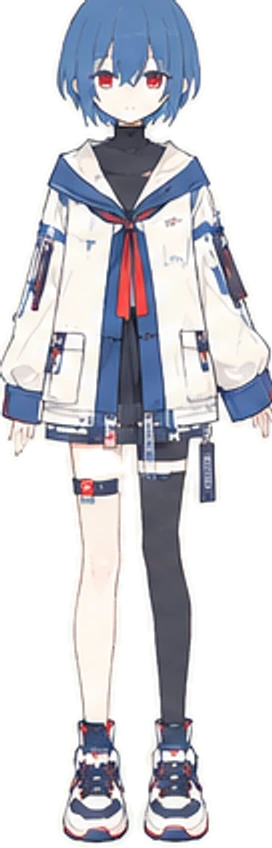
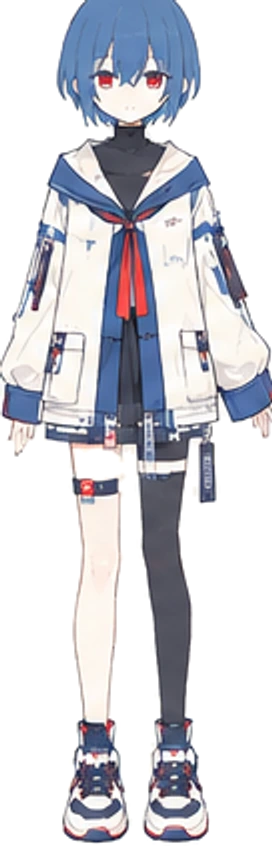
fix(character): strip the leftover paper rim that showed as a white edge
線画の外側に、紙よりわずかに明るい 1〜2 画素の帯が残っていた。塗りつぶしを
止めるための「勾配の壁」が、紙とこの帯の境目（L1 で 28）にも反応して、
そこで止まっていたのが原因。暗い地色に置くと白いフチとして見える。

直したのは 2 か所。

1. 塗りつぶしのあと、透明側から内側へ「紙色に近い画素」だけを 1 画素ずつ削る。
   線画（紙色から大きく離れた色）に当たったところで止まるので、服の白までは
   食い込まない。既定 3 回。
2. 2 倍に拡大する前に、透明部分へ縁の色を広げる（アルファブリード）。
   これをやらないと補間が境界をまたいで紙色を引っ張り込み、せっかく削った
   フチが戻ってくる。

素足の図（wear-socks）だけは輪郭線だけの淡い絵で、紙と見分けがつかず 1 を
掛けると線ごと消えてしまう。表情・顔のアップと同じく、切り抜かずに図版として
紙のカードに載せる扱いに変えた。

確認はマゼンタ地の上で行った。白いフチはどんな地色より目立つので、
暗い地色で見るより確実に分かる。

diff --git a/src/content/character.ts b/src/content/character.ts
@@ -33,11 +33,11 @@ const sheet = (
 
 /** 全身 5 方向 */
 export const bodyViews: readonly Plate[] = [
-  sheet('body-front', '正面', 272, 848, 'cutout'),
-  sheet('body-side', '横', 174, 840, 'cutout'),
-  sheet('body-back', '背面', 242, 842, 'cutout'),
-  sheet('body-front45', '斜め前', 252, 844, 'cutout'),
-  sheet('body-back45', '斜め後ろ', 236, 842, 'cutout'),
+  sheet('body-front', '正面', 272, 846, 'cutout'),
+  sheet('body-side', '横', 172, 836, 'cutout'),
+  sheet('body-back', '背面', 242, 840, 'cutout'),
+  sheet('body-front45', '斜め前', 248, 842, 'cutout'),
+  sheet('body-back45', '斜め後ろ', 230, 838, 'cutout'),
 ] as const
 
 /** 顔のアップ */
@@ -59,23 +59,23 @@ export const expressions: readonly Plate[] = [
 
 /** 髪型の詳細 */
 export const hairPlates: readonly Plate[] = [
-  sheet('hair-front', '前髪', 282, 212, 'cutout'),
-  sheet('hair-side', '横髪（左側）', 244, 212, 'cutout'),
-  sheet('hair-back', '後ろ髪', 232, 276, 'cutout'),
-  sheet('hair-ornament', '髪飾り', 220, 196, 'cutout', '後ろの襟元に「×」の飾りがある'),
+  sheet('hair-front', '前髪', 280, 212, 'cutout'),
+  sheet('hair-side', '横髪（左側）', 240, 212, 'cutout'),
+  sheet('hair-back', '後ろ髪', 230, 272, 'cutout'),
+  sheet('hair-ornament', '髪飾り', 216, 194, 'cutout', '後ろの襟元に「×」の飾りがある'),
 ] as const
 
 /** 衣装・小物 */
 export const wearPlates: readonly Plate[] = [
-  sheet('wear-jacket-front', '上着（前面）', 360, 356, 'cutout', 'セーラージャケット'),
-  sheet('wear-jacket-back', '上着（背面）', 272, 384, 'cutout', '襟の背面に「×」'),
-  sheet('wear-inner', 'インナー', 224, 328, 'cutout', 'ノースリーブのハイネック'),
-  sheet('wear-bottoms', 'ボトムス', 322, 284, 'cutout', 'スカート + ショートパンツ'),
-  sheet('wear-socks', 'ソックス・ガーター', 190, 342, 'cutout', '右太ももにガーター'),
-  sheet('wear-shoes', 'シューズ', 390, 188, 'cutout', '厚底のスニーカー'),
-  sheet('wear-tie', 'ネクタイ', 132, 192, 'cutout', 'セーラーのリボン'),
-  sheet('wear-tags', '装飾・タグ', 128, 190, 'cutout', 'サイドのストラップとタグ'),
-  sheet('wear-extras', 'その他の装飾', 392, 196, 'cutout', '腕のポケットとベルト'),
+  sheet('wear-jacket-front', '上着（前面）', 360, 354, 'cutout', 'セーラージャケット'),
+  sheet('wear-jacket-back', '上着（背面）', 238, 346, 'cutout', '襟の背面に「×」'),
+  sheet('wear-inner', 'インナー', 224, 324, 'cutout', 'ノースリーブのハイネック'),
+  sheet('wear-bottoms', 'ボトムス', 318, 276, 'cutout', 'スカート + ショートパンツ'),
+  sheet('wear-socks', 'ソックス・ガーター', 218, 337, 'plate', '右太ももにガーター'),
+  sheet('wear-shoes', 'シューズ', 386, 184, 'cutout', '厚底のスニーカー'),
+  sheet('wear-tie', 'ネクタイ', 124, 188, 'cutout', 'セーラーのリボン'),
+  sheet('wear-tags', '装飾・タグ', 122, 188, 'cutout', 'サイドのストラップとタグ'),
+  sheet('wear-extras', 'その他の装飾', 384, 192, 'cutout', '腕のポケットとベルト'),
 ] as const
 
 export type Swatch = {
